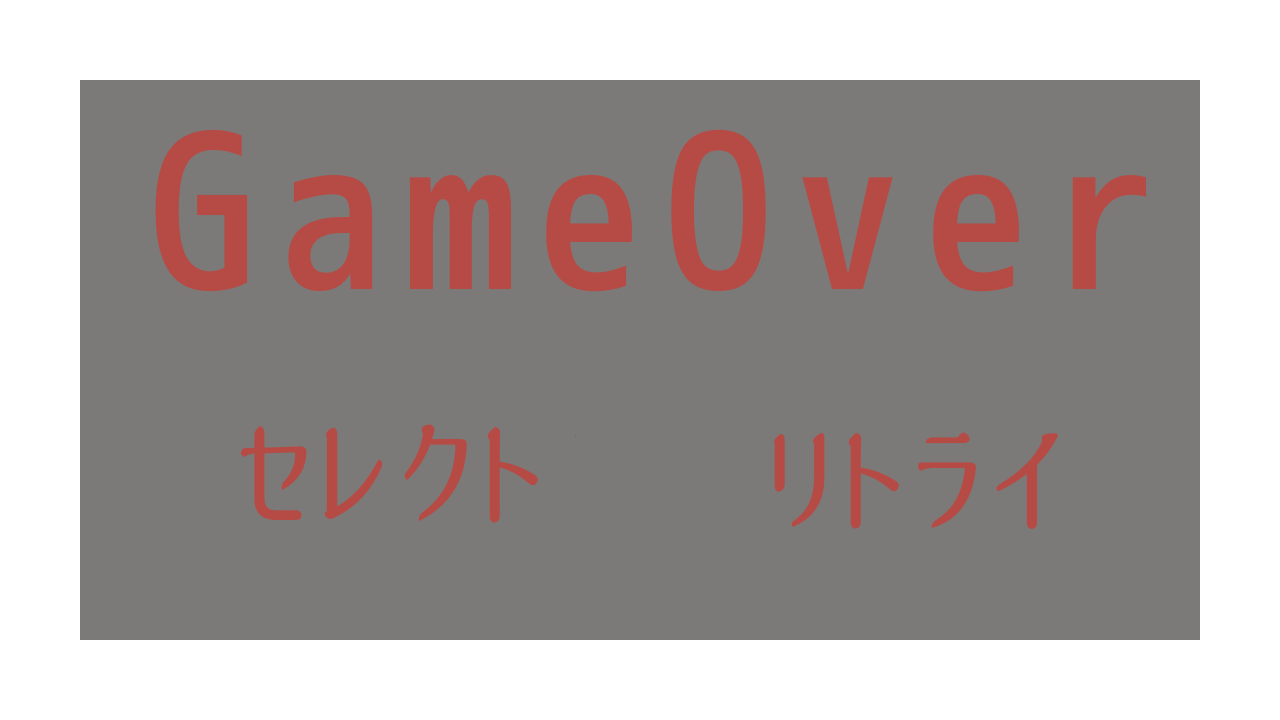
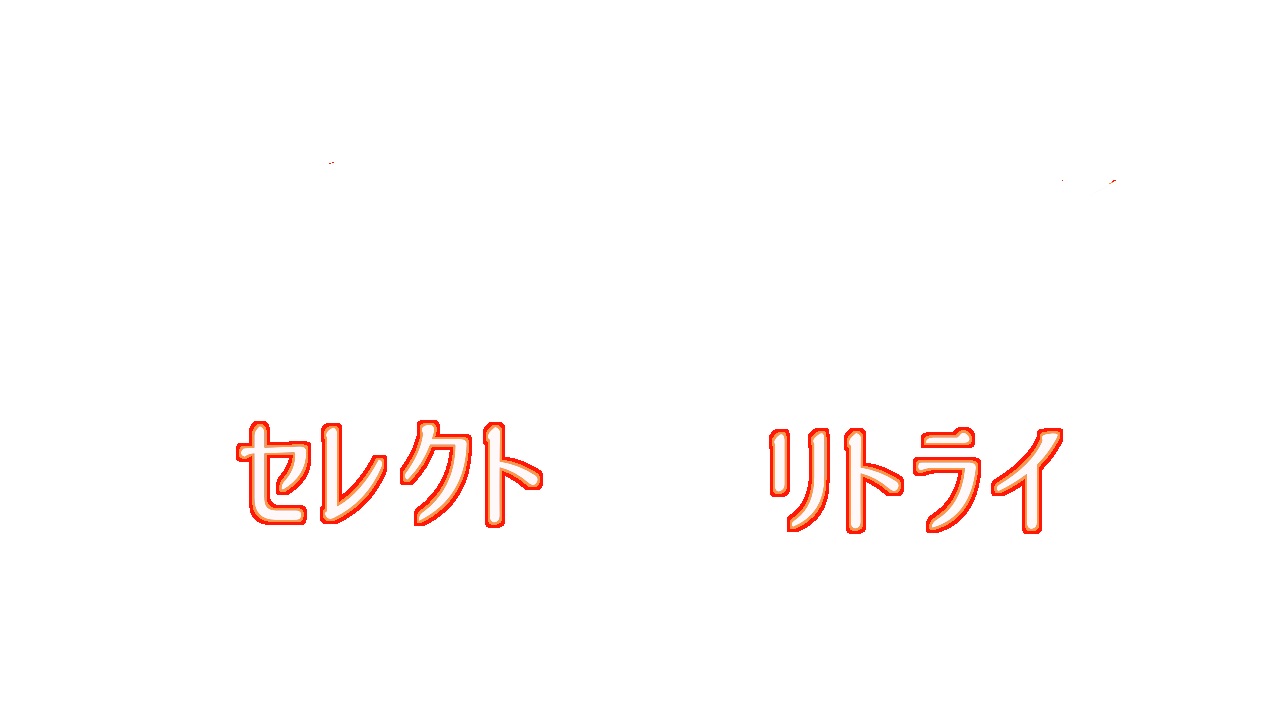
ゲームオーバーの画面見た目強化１

diff --git a/PenguinBreak/Scene/GameSceneManager.cpp b/PenguinBreak/Scene/GameSceneManager.cpp
@@ -128,7 +128,7 @@ void GameSceneManager::Update()
 	}
 	ui.Update(Player::Get()->GetFishNum());
 
-	decLifeStaging.Update(Player::Get()->GetDecLifeFlag());
+	decLifeStaging.Update(Player::Get()->GetDecLifeFlag(), Player::Get()->GetGameoverFlag());
 }
 
 void GameSceneManager::Draw()
@@ -146,9 +146,9 @@ void GameSceneManager::Draw()
 	Stage::Get()->DrawParicle();
 	//2D
 	ui.Draw(Player::Get()->GetRemanLives(),
-		Player::Get()->GetGameoverFlag(), changeNum);
+		Player::Get()->GetGameoverFlag());
 
-	decLifeStaging.Draw(Player::Get()->GetGameoverFlag());
+	decLifeStaging.Draw(Player::Get()->GetGameoverFlag(), changeNum);
 }
 
 void GameSceneManager::ShadowDraw()

diff --git a/PenguinBreak/Scene/StageSelect.cpp b/PenguinBreak/Scene/StageSelect.cpp
@@ -31,7 +31,7 @@ void StageSelect::Init()
 {
 	FBXObject3d::SetLight(lightGroup.get());
 	Object::SetLight(lightGroup.get());
-
+	Player::Get()->Reset();
 	Player::Get()->ChangeMoveFlag(false);
 	Player::Get()->GetClearFlag(false);
 	for (size_t i = 0; i < stageNumMax; i++)
